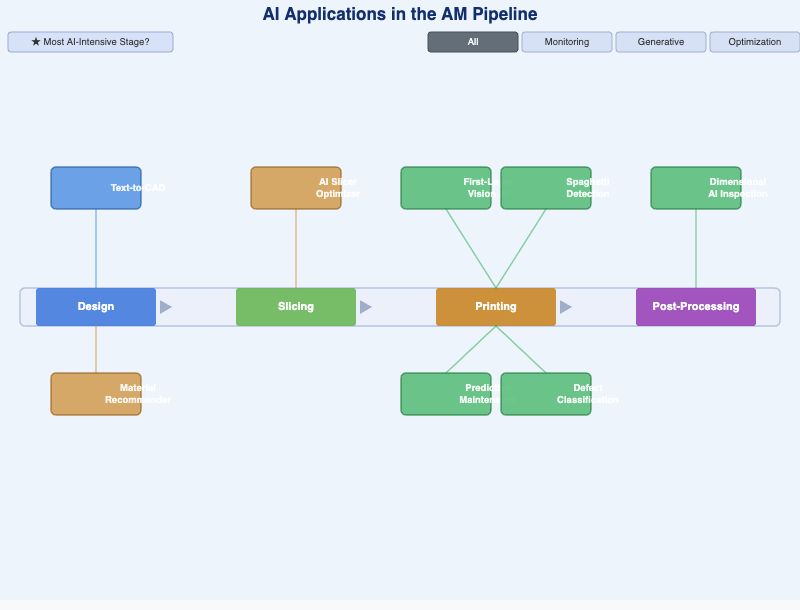
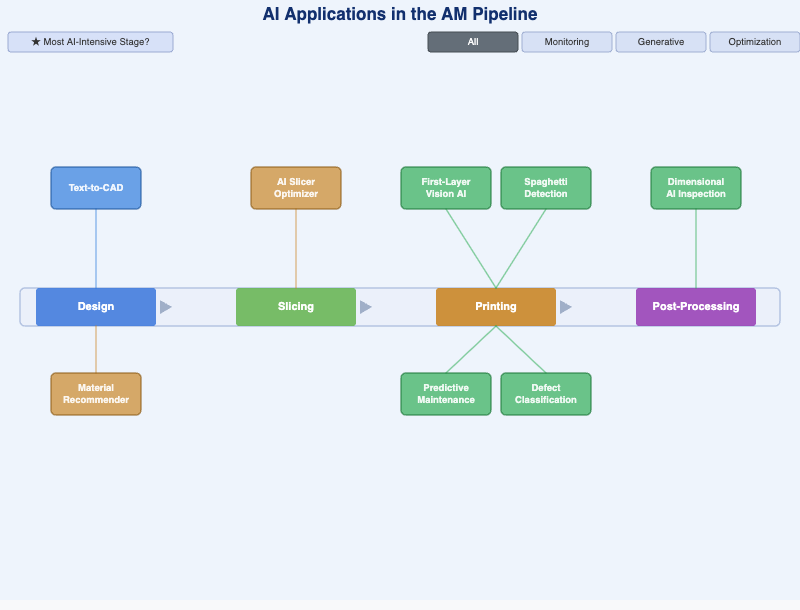
updates to microsim

diff --git a/docs/sims/ai-in-am-pipeline/ai-in-am-pipeline.js b/docs/sims/ai-in-am-pipeline/ai-in-am-pipeline.js
@@ -236,10 +236,10 @@ function drawNodes(pipeW) {
     strokeWeight(isSel ? 2.5 : 1.5);
     rect(pos.x - pos.w / 2, pos.y - pos.h / 2, pos.w, pos.h, 5);
 
-    // Label
+    // Label — bounding box left edge = pos.x - (pos.w-6)/2 for CENTER alignment
     noStroke(); fill(255, 255, 255, alpha > 100 ? 230 : 60);
     textAlign(CENTER, CENTER); textSize(9.5); textStyle(BOLD);
-    text(node.label, pos.x, pos.y, pos.w - 6);
+    text(node.label, pos.x - (pos.w - 6) / 2, pos.y - pos.h / 2 + 2, pos.w - 6, pos.h - 4);
     textStyle(NORMAL);
   });
 }

diff --git a/docs/sims/ai-in-am-pipeline/index.md b/docs/sims/ai-in-am-pipeline/index.md
@@ -1,16 +1,12 @@
 ---
 title: AI in AM Pipeline Explorer
 description: Students organize AI applications in additive manufacturing by their stage in the production pipeline and analyze what data each system needs and what output it provides.
-status: scaffold
+status: implemented
 library: p5.js
 bloom_level: Analyze (L4)
 ---
 
 # AI in AM Pipeline Explorer
-
-!!! warning "Scaffold"
-    This MicroSim has been scaffolded from its specification. The interactive
-    implementation has not been built yet.
 
 ## Learning Objective
 
@@ -22,7 +18,7 @@ Students organize AI applications in additive manufacturing by their stage in th
 
 ## Preview
 
-<iframe src="main.html" width="100%" height="600"></iframe>
+<iframe src="main.html" width="100%" height="602" scrolling="no"></iframe>
 
 [Run MicroSim in Fullscreen](main.html){ .md-button .md-button--primary }
 
